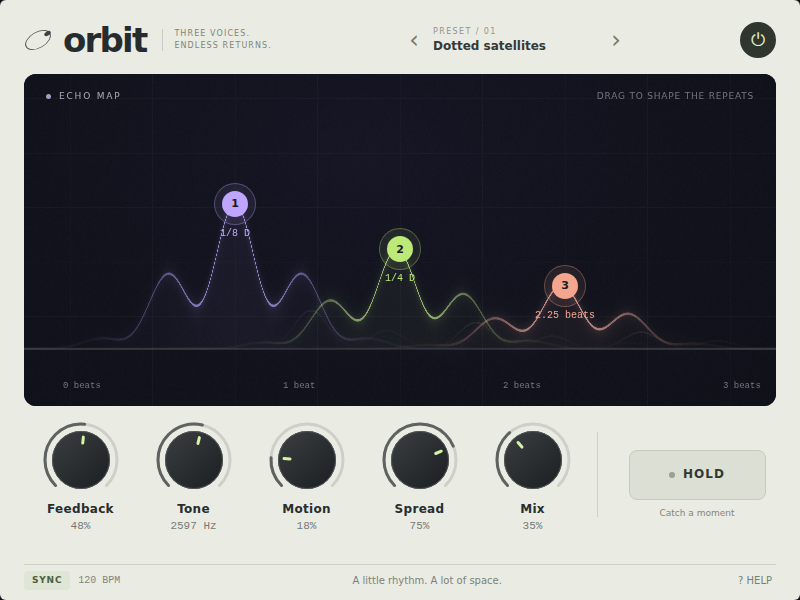
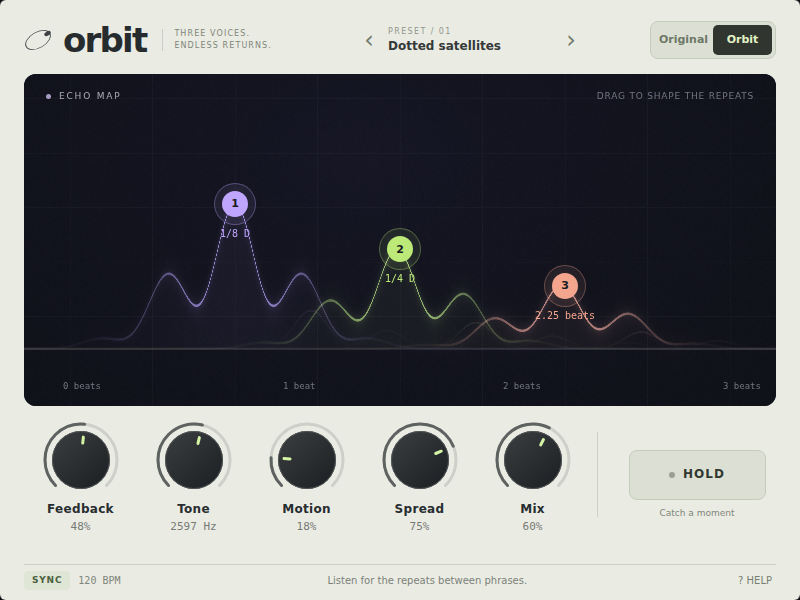
fix(orbit): make the demo echoes and dry comparison clear

diff --git a/apps/website/e2e/orbit.spec.ts b/apps/website/e2e/orbit.spec.ts
@@ -12,10 +12,21 @@ test('Orbit plays real audio and edits its delay through the portable controls',
   });
   await page.addInitScript(() => {
     const original = AudioNode.prototype.connect;
-    const destination = window as unknown as { orbitAnalyser?: AnalyserNode };
+    const destination = window as unknown as {
+      orbitAnalyser?: AnalyserNode;
+      orbitInputAnalyser?: AnalyserNode;
+      orbitDemoStart?: number;
+    };
     Object.defineProperty(AudioNode.prototype, 'connect', {
       value: function (this: AudioNode, ...args: unknown[]) {
         const result = Reflect.apply(original, this, args);
+        if (args[0] instanceof AudioWorkletNode) {
+          destination.orbitInputAnalyser ??= this.context.createAnalyser();
+          destination.orbitInputAnalyser.fftSize = 2048;
+          Reflect.apply(original, this, [destination.orbitInputAnalyser]);
+          if (this instanceof AudioBufferSourceNode)
+            destination.orbitDemoStart = this.context.currentTime;
+        }
         if (args[0] === this.context.destination) {
           const analyser = this.context.createAnalyser();
           analyser.fftSize = 2048;
@@ -48,6 +59,39 @@ test('Orbit plays real audio and edits its delay through the portable controls',
     )
     .toBeGreaterThan(0.001);
 
+  // In the deliberate gap after the phrase, the input is silent but Orbit
+  // must produce clearly measurable repeats. Nonzero output alone would let
+  // a broken passthrough implementation pass this test.
+  await expect
+    .poll(
+      () =>
+        page.evaluate(() => {
+          const meter = window as unknown as {
+            orbitAnalyser: AnalyserNode;
+            orbitInputAnalyser: AnalyserNode;
+            orbitDemoStart: number;
+          };
+          if (!meter.orbitInputAnalyser || meter.orbitDemoStart === undefined)
+            return false;
+          const elapsed =
+            (meter.orbitAnalyser.context.currentTime - meter.orbitDemoStart) %
+            4;
+          if (elapsed < 1.5 || elapsed > 3.8) return false;
+          const input = new Float32Array(2048),
+            output = new Float32Array(2048);
+          meter.orbitInputAnalyser.getFloatTimeDomainData(input);
+          meter.orbitAnalyser.getFloatTimeDomainData(output);
+          const rms = (samples: Float32Array) =>
+            Math.sqrt(
+              samples.reduce((sum, sample) => sum + sample * sample, 0) /
+                samples.length,
+            );
+          return rms(input) < 0.00001 && rms(output) > 0.002;
+        }),
+      { timeout: 10000, intervals: [50] },
+    )
+    .toBe(true);
+
   const echo = page.getByRole('slider', { name: 'Echo 1 time', exact: true });
   const box = (await echo.boundingBox())!;
   await page.mouse.move(box.x + box.width / 2, box.y + box.height / 2);
@@ -72,8 +116,8 @@ test('Orbit plays real audio and edits its delay through the portable controls',
   await page.keyboard.press('ArrowUp');
   await expect(
     page.getByRole('slider', { name: 'Mix', exact: true }),
-  ).toHaveAttribute('aria-valuenow', '0.33');
-  await page.getByRole('button', { name: 'Bypass', exact: true }).click();
+  ).toHaveAttribute('aria-valuenow', '0.61');
+  await page.getByRole('radio', { name: 'Original', exact: true }).click();
   await expect(
     page.getByText('Bypassed · original audio', { exact: true }),
   ).toBeVisible();

diff --git a/examples/orbit/src/App.tsx b/examples/orbit/src/App.tsx
@@ -112,17 +112,47 @@ export function App() {
             <Text style={styles.arrowText}>›</Text>
           </Pressable>
         </View>
-        <Pressable
-          accessibilityLabel="Bypass"
-          accessibilityRole="togglebutton"
-          accessibilityState={{ checked: bypass }}
-          onPress={() => toggle(parameters.bypass)}
-          style={[styles.power, bypass && { backgroundColor: '#d9d9d2' }]}
+        <View
+          accessibilityRole="radiogroup"
+          accessibilityLabel="Compare audio"
+          style={styles.compare}
         >
-          <Text style={{ color: bypass ? '#777d73' : '#e2f1c6', fontSize: 18 }}>
-            ⏻
-          </Text>
-        </Pressable>
+          {[
+            { label: 'Original', dry: true },
+            { label: 'Orbit', dry: false },
+          ].map(({ label, dry }) => (
+            <Pressable
+              key={label}
+              accessibilityRole="radio"
+              accessibilityLabel={label}
+              accessibilityState={{ checked: bypass === dry }}
+              accessibilityHint={
+                dry
+                  ? 'Hear the input without Orbit'
+                  : 'Hear the current Orbit settings'
+              }
+              onPress={() => {
+                parameters.bypass.beginGesture();
+                parameters.bypass.set(dry);
+                parameters.bypass.endGesture();
+              }}
+              style={[
+                styles.compareOption,
+                bypass === dry && { backgroundColor: '#30362f' },
+              ]}
+            >
+              <Text
+                style={{
+                  color: bypass === dry ? '#e2f1c6' : '#6e7867',
+                  fontSize: 11,
+                  fontWeight: 'bold',
+                }}
+              >
+                {label}
+              </Text>
+            </Pressable>
+          ))}
+        </View>
       </View>
       <View style={{ marginTop: 14 }}>
         <EchoField bpm={bpm} playing={host.transport?.playing ?? false} />
@@ -295,11 +325,18 @@ const styles = StyleSheet.create({
     borderRadius: 6,
   },
   arrowText: { color: '#737b6d', fontSize: 24, lineHeight: 28 },
-  power: {
-    width: 36,
-    height: 36,
-    borderRadius: 18,
-    backgroundColor: '#30362f',
+  compare: {
+    flexDirection: 'row',
+    padding: 3,
+    borderRadius: 8,
+    backgroundColor: '#dce0d4',
+    borderWidth: 1,
+    borderColor: '#c5ccba',
+  },
+  compareOption: {
+    width: 59,
+    height: 30,
+    borderRadius: 5,
     alignItems: 'center',
     justifyContent: 'center',
   },

diff --git a/examples/orbit/runtimes/web/src/demo.ts b/examples/orbit/runtimes/web/src/demo.ts
@@ -9,26 +9,28 @@ export function demoLoop(context: BaseAudioContext): AudioBuffer {
     seed = (seed * 16807) % 2147483647;
     return seed / 1073741823.5 - 1;
   };
-  for (let step = 0; step < 32; step++) {
-    const start = Math.round(step * 0.25 * rate);
-    const note = [57, 64, 69, 72, 55, 62, 67, 71][Math.floor(step / 4) % 8]!;
-    const frequency = 440 * 2 ** ((note - 69) / 12);
-    for (let i = 0; i < rate * 0.6 && start + i < left.length; i++) {
+  // Two short calls, each followed by three seconds of space for the answer.
+  // Dense source material masks a delay, especially for a first-time listener.
+  const starts = [0, 0.5, 1, 4, 4.5, 5];
+  const notes = [57, 64, 69, 55, 62, 67];
+  for (let note = 0; note < starts.length; note++) {
+    const start = Math.round(starts[note]! * rate);
+    const frequency = 440 * 2 ** ((notes[note]! - 69) / 12);
+    for (let i = 0; i < rate * 0.3; i++) {
       const t = i / rate;
-      const pluck =
-        Math.sin(2 * Math.PI * frequency * t) +
-        0.3 * Math.sin(4 * Math.PI * frequency * t);
-      let value = pluck * Math.exp(-t * 12) * 0.16 * Math.min(1, t * 800);
-      if (step % 4 === 0)
-        value +=
-          Math.sin(2 * Math.PI * (48 * t + 2 * (1 - Math.exp(-t * 32)))) *
-          Math.exp(-t * 16) *
-          0.3;
-      if (step % 4 === 2) value += noise() * Math.exp(-t * 42) * 0.1;
-      value += noise() * Math.exp(-t * 170) * (step % 2 === 0 ? 0.035 : 0.025);
-      const pan = step % 2 === 0 ? 0.85 : 1;
-      left[start + i]! += value * pan;
-      right[start + i]! += value * (1.85 - pan);
+      let pluck = 0;
+      // A bright pluck makes the Tone control audible across its range.
+      for (let harmonic = 1; harmonic <= 8; harmonic++) {
+        pluck +=
+          (Math.sin(2 * Math.PI * frequency * harmonic * t) /
+            harmonic ** 1.25) *
+          Math.exp(-t * harmonic * 3);
+      }
+      const envelope = Math.min(1, t * 800) * Math.exp(-t * 20);
+      const value =
+        (pluck * 0.3 + noise() * Math.exp(-t * 180) * 0.08) * envelope;
+      left[start + i] = value;
+      right[start + i] = value;
     }
   }
   return buffer;

diff --git a/examples/orbit/src/model.ts b/examples/orbit/src/model.ts
@@ -40,50 +40,50 @@ export function beatLabel(beats: number): string {
 export const presets = [
   {
     name: 'Dotted satellites',
-    detail: 'A little rhythm. A lot of space.',
+    detail: 'Listen for the repeats between phrases.',
     times: [0.75, 1.5, 2.25],
     levels: [0.8, 0.55, 0.35],
     feedback: 0.48,
     tone: 0.55,
     motion: 0.18,
     spread: 0.75,
-    mix: 0.35,
+    mix: 0.6,
     sync: true,
   },
   {
     name: 'Warm magnetic',
-    detail: 'Soft edges. Unsteady memories.',
+    detail: 'Short, dark repeats with a little tape drift.',
     times: [0.38, 0.76, 1.14],
-    levels: [0.85, 0.5, 0.25],
-    feedback: 0.58,
+    levels: [0.9, 0.3, 0.12],
+    feedback: 0.32,
     tone: 0.28,
-    motion: 0.45,
-    spread: 0.4,
-    mix: 0.32,
+    motion: 0.65,
+    spread: 0.3,
+    mix: 0.6,
     sync: false,
   },
   {
     name: 'Drifting space',
-    detail: 'Let a small sound become a place.',
+    detail: 'Long, moving tails fill the gaps.',
     times: [1, 1.75, 2.75],
-    levels: [0.6, 0.7, 0.55],
-    feedback: 0.76,
+    levels: [0.7, 0.7, 0.7],
+    feedback: 0.82,
     tone: 0.4,
-    motion: 0.65,
+    motion: 0.85,
     spread: 1,
-    mix: 0.55,
+    mix: 0.8,
     sync: true,
   },
   {
     name: 'Close conversation',
-    detail: 'Three voices, just behind yours.',
-    times: [0.18, 0.27, 0.42],
-    levels: [0.65, 0.45, 0.25],
-    feedback: 0.18,
-    tone: 0.65,
-    motion: 0.08,
-    spread: 0.6,
-    mix: 0.25,
+    detail: 'A tight, wide double instead of a long tail.',
+    times: [0.125, 0.14, 0.18],
+    levels: [0.85, 0.55, 0.85],
+    feedback: 0.04,
+    tone: 0.8,
+    motion: 0.12,
+    spread: 1,
+    mix: 0.6,
     sync: false,
   },
 ] as const;

diff --git a/examples/orbit/src/App.test.tsx b/examples/orbit/src/App.test.tsx
@@ -38,12 +38,16 @@ test('echoes and knobs support keyboard editing; toggles expose their state', as
   expect(parameters.feedback.get()).toBeGreaterThan(0.48);
   await user.keyboard('{Home}');
   expect(parameters.feedback.get()).toBe(0.48);
-  await user.click(screen.getByRole('togglebutton', { name: 'Bypass' }));
+  await user.click(screen.getByRole('radio', { name: 'Original' }));
   expect(parameters.bypass.get()).toBe(true);
   expect(
-    screen.getByRole('togglebutton', { name: 'Bypass' }).accessibility.state
+    screen.getByRole('radio', { name: 'Original' }).accessibility.state
       ?.checked,
   ).toBe(true);
+  const mix = parameters.mix.get();
+  await user.click(screen.getByRole('radio', { name: 'Orbit' }));
+  expect(parameters.bypass.get()).toBe(false);
+  expect(parameters.mix.get()).toBe(mix);
 });
 
 const settings = (): DelaySettings => ({

diff --git a/examples/orbit/runtimes/web/index.html b/examples/orbit/runtimes/web/index.html
@@ -54,12 +54,10 @@
     <div class="source">
       <label for="audio-source">Audio source</label>
       <select id="audio-source">
-        <option value="demo">Original demo loop · 120 BPM</option>
+        <option value="demo">Pluck phrase + gaps · 120 BPM</option>
         <option value="host">Host input / your audio file</option>
       </select>
-      <span class="hint"
-        >Press Play below · choose your file in host settings</span
-      >
+      <span class="hint">Press Play below · compare Original / Orbit</span>
     </div>
     <div id="soundor"></div>
     <script type="module" src="./src/main.ts"></script>

diff --git a/examples/orbit/soundor.config.ts b/examples/orbit/soundor.config.ts
@@ -85,7 +85,7 @@ export default defineSoundorConfig({
       max: 1,
       default: 0.75,
     },
-    { type: 'float', id: 'mix', label: 'Mix', min: 0, max: 1, default: 0.35 },
+    { type: 'float', id: 'mix', label: 'Mix', min: 0, max: 1, default: 0.6 },
     { type: 'bool', id: 'sync', label: 'Tempo sync', default: true },
     { type: 'bool', id: 'hold', label: 'Hold', default: false },
     { type: 'bool', id: 'bypass', label: 'Bypass', default: false },

diff --git a/examples/orbit/README.md b/examples/orbit/README.md
@@ -15,7 +15,9 @@ pnpm --filter orbit build:web
 pnpm --filter orbit exec soundor build juce
 ```
 
-Press the host's Play button to hear the original, synthesized demo loop.
+Press the host's Play button to hear a short, bright pluck phrase followed by
+silence. Listen for Orbit's answer in those gaps. The **Original / Orbit**
+buttons compare the dry input with the current effect without changing its settings.
 The source selector above the plugin switches to the host's input; choose an
 audio file in the host settings. Those controls belong to the browser demo,
 not to the plugin. The JUCE version always processes the host's audio input.
@@ -29,7 +31,8 @@ not to the plugin. The JUCE version always processes the host's audio input.
   remains until released, with a short seam crossfade; time changes alter
   playback speed. The dry input continues, and new input does not enter the
   captured loops. Feedback is ignored while held. Tone, width and mix still work.
-- Bypass smoothly returns to the original audio. The delay continues running.
+- **Original** smoothly bypasses Orbit; **Orbit** restores the effect. The delay
+  continues running while bypassed.
 - Preset arrows apply four starting points and release Hold. The preset name
   identifies the starting point; parameter edits do not rename it.
 
